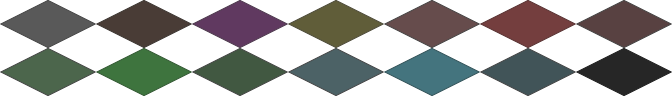
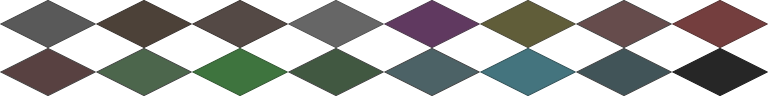
Add surrounding cells coloring to game structures

diff --git a/src/GameMap.cpp b/src/GameMap.cpp
@@ -125,6 +125,7 @@ void GameMap::SyncMapCells()
     {
         const auto type = static_cast<CellTypes>(mIsoMap->GetCellType(i));
 
+        mCells[i].currType = type;
         mCells[i].basicType = type;
 
         // DIAMONDS GENERATOR
@@ -1231,7 +1232,7 @@ void GameMap::ClearCell(GameMapCell & gcell)
         mCollGen.erase(it);
     }
 
-    gcell.basicType = EMPTY;
+    gcell.currType = EMPTY;
 }
 
 void GameMap::StopCellChange(GameMapCell & gcell)
@@ -1255,8 +1256,8 @@ int GameMap::DefineCellType(unsigned int ind, const GameMapCell & cell)
         return FOG_OF_WAR;
 
     // scene cell
-    if(SCENE == cell.basicType || DIAMONDS_SOURCE == cell.basicType || BLOBS_SOURCE == cell.basicType)
-        return cell.basicType;
+    if(SCENE_ROCKS == cell.currType || DIAMONDS_SOURCE == cell.currType || BLOBS_SOURCE == cell.currType)
+        return cell.currType;
 
     const PlayerFaction ownerFaction = cell.owner ? cell.owner->GetFaction() : NO_FACTION;
 
@@ -1296,7 +1297,7 @@ int GameMap::DefineCellType(unsigned int ind, const GameMapCell & cell)
                 type = F3_INFLUENCED;
             // no influence
             else
-                type = EMPTY;
+                type = cell.basicType;
         }
         break;
     }

diff --git a/src/GameMapCell.h b/src/GameMapCell.h
@@ -15,7 +15,9 @@ enum PlayerFaction : unsigned int;
 enum CellTypes : int
 {
     EMPTY = 0,
-    SCENE,
+    SCENE_ROCKS,
+    SCENE_ROCKS_SURR,
+    SCENE_RESOURCE,
     BLOBS_SOURCE,
     DIAMONDS_SOURCE,
 
@@ -56,6 +58,7 @@ struct GameMapCell
     Player * owner = nullptr;
     GameObject * obj = nullptr;
 
+    CellTypes currType = EMPTY;
     CellTypes basicType = EMPTY;
 
     int row = 0;

diff --git a/src/GameData.h b/src/GameData.h
@@ -12,6 +12,8 @@ enum SpriteIdCells : unsigned int
     // SCENE
     IND_EMPTY,
     IND_SCENE_ROCKS,
+    IND_SCENE_ROCKS_SURR,
+    IND_SCENE_RESOURCE,
     IND_BLOBS_SOURCE,
     IND_DIAMONDS_SOURCE,
     // F1

diff --git a/src/Screens/ScreenGame.cpp b/src/Screens/ScreenGame.cpp
@@ -303,7 +303,7 @@ void ScreenGame::InitSprites()
     // CELLS
     std::vector<lib::core::Rectd> rectsCells;
     indRows = 2;
-    indCols = 7;
+    indCols = 8;
     indW = 96;
     indH = 48;
 
